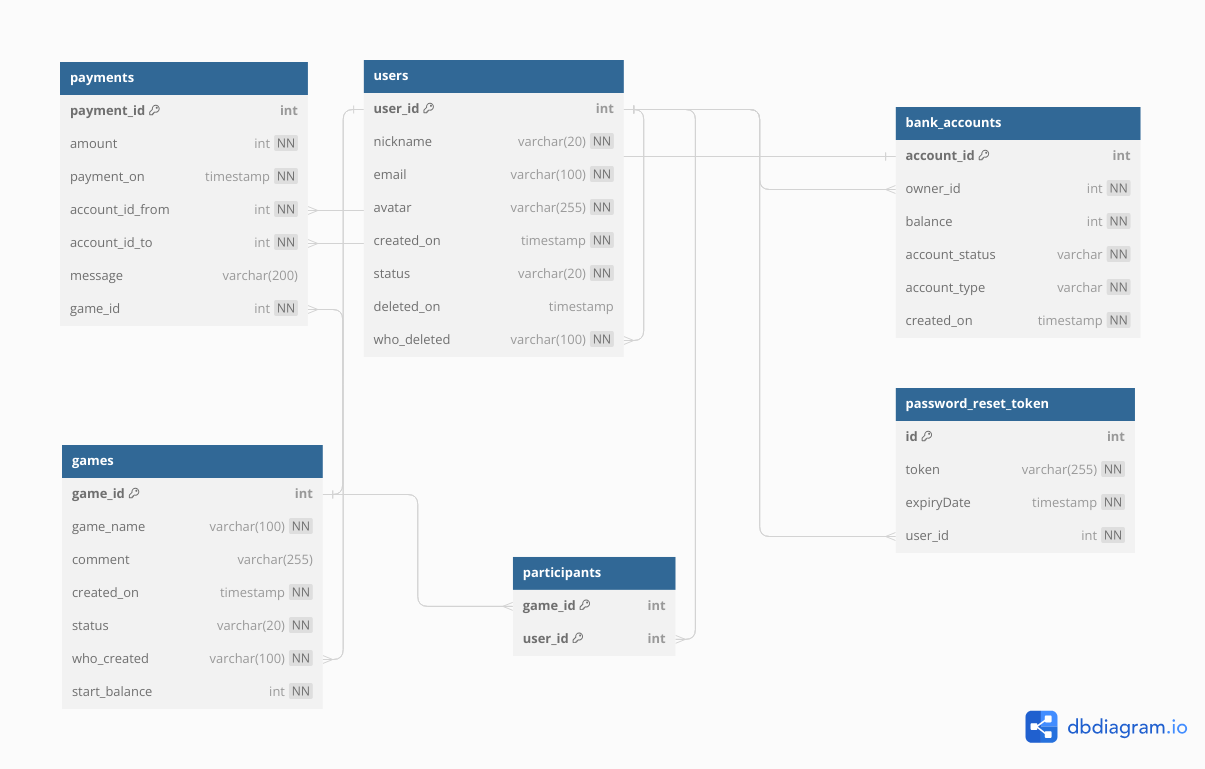
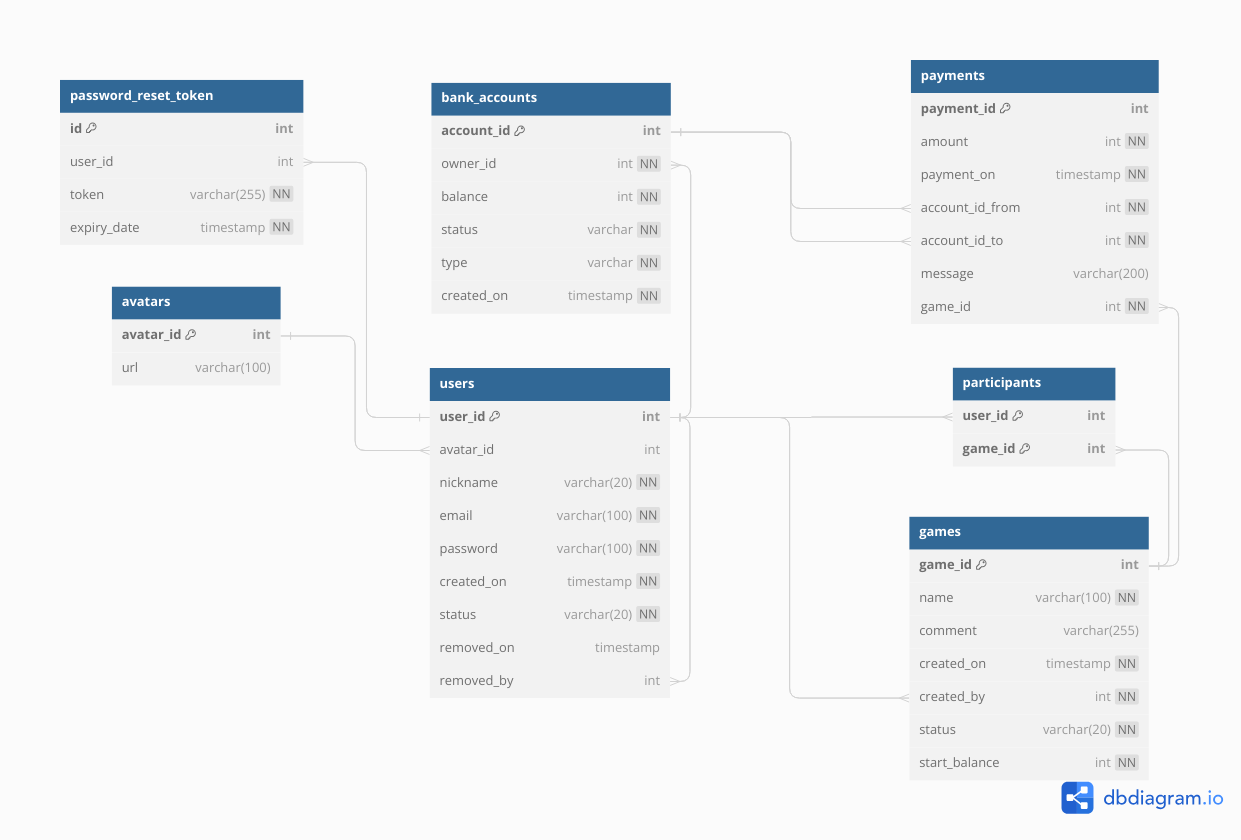
update ER-diagramma after review

diff --git a/README.md b/README.md
@@ -7,4 +7,4 @@ Career Game Payment System
 
 ![er-karyeragame.png](er-karyeragame.png)
 
-([click here to edit](https://dbdiagram.io/d/Copy-of-karyeragame-651b0126ffbf5169f0e25b31))
+([click here to edit](https://dbdiagram.io/d/karyeragame-65073ff902bd1c4a5ebbbf05))
